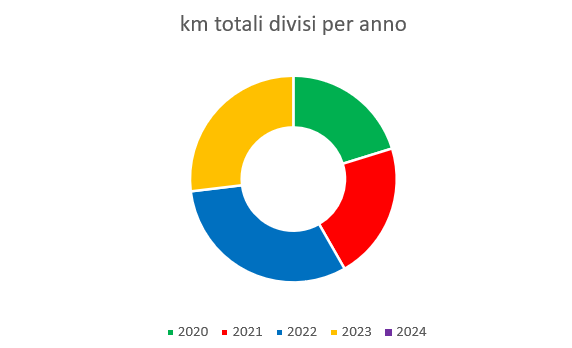
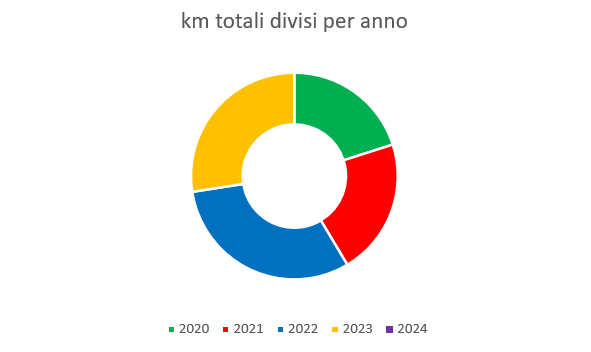
Aggiunta Corsa 19 Novembre

diff --git a/Statistiche/Statistiche2023.html b/Statistiche/Statistiche2023.html
@@ -49,67 +49,67 @@
         <tr>
             <td>Gennaio</td>
             <td>127</td>
-            <td>3,89 %</td>
+            <td>3,78 %</td>
         </tr>
 
         <tr>
             <td>Febbraio</td>
             <td>148</td>
-            <td>4,53 %</td>
+            <td>4,41 %</td>
         </tr>
 
         <tr>
             <td>Marzo</td>
             <td>194</td>
-            <td>5,94 %</td>
+            <td>5,78 %</td>
         </tr>
 
         <tr>
             <td>Aprile</td>
             <td>103</td>
-            <td>3,15 %</td>
+            <td>3,07 %</td>
         </tr>
 
         <tr>
             <td>Maggio</td>
             <td>242</td>
-            <td>7,41 %</td>
+            <td>7,21 %</td>
         </tr>
 
         <tr>
             <td>Giugno</td>
             <td>265</td>
-            <td>8,11 %</td>
+            <td>7,89 %</td>
         </tr>
 
         <tr>
             <td>Luglio</td>
             <td>422</td>
-            <td>12,92 %</td>
+            <td>12,57 %</td>
         </tr>
 
         <tr>
             <td>Agosto</td>
             <td>426</td>
-            <td>13,04 %</td>
+            <td>12,69 %</td>
         </tr>
 
         <tr>
             <td>Settembre</td>
             <td>712</td>
-            <td>21,79 %</td>
+            <td>21,20 %</td>
         </tr>
 
         <tr>
             <td>Ottobre</td>
             <td>420</td>
-            <td>12,86 %</td>
+            <td>12,51 %</td>
         </tr>
 
         <tr>
             <td>Novembre</td>
-            <td>208</td>
-            <td>6,37%</td>
+            <td>299</td>
+            <td>8,90 %</td>
         </tr>
 
         <tr>
@@ -124,10 +124,10 @@
     <img class="immagine" src="Immagini/Statistiche 2023.png">
     <br>
     <div class="colore">
-        <p>totale km 3.267
+        <p>totale km 3.358
             <img src="../Icone/traguardo.png">
         </p>
-        <p>km medi percorsi 65,34</p>
+        <p>km medi percorsi 65,84</p>
     </div>
     <br>
 

diff --git a/Statistiche.html b/Statistiche.html
@@ -66,7 +66,7 @@
             </p>
 
             <p> km totali <img src="Icone/traguardo.png"> 2.456</p>
-            <p> 20,20 %</p>
+            <p> 20,10 %</p>
         </a>
     </div>
 
@@ -77,7 +77,7 @@
             </p>
 
             <p> km totali <img src="Icone/traguardo.png"> 2.614</p>
-            <p> 21,50 %</p>
+            <p> 21,40 %</p>
         </a>
     </div>
 
@@ -88,7 +88,7 @@
             </p>
 
             <p> km totali <img src="Icone/traguardo.png"> 3.808</p>
-            <p> 31,40 %</p>
+            <p> 31,10 %</p>
         </a>
     </div>
 
@@ -98,8 +98,8 @@
                 Statistiche 2023
             </p>
 
-            <p> km totali <img src="Icone/traguardo.png"> 3.267</p>
-            <p> 26,90 %</p>
+            <p> km totali <img src="Icone/traguardo.png"> 3.358</p>
+            <p> 27,40 %</p>
         </a>
     </div>
 
@@ -120,11 +120,11 @@
 
     <div class="colore">
         <p>
-            totale km fatti 12.145
+            totale km fatti 12.236
             <img src="Icone/traguardo.png">
         </p>
 
-        <p>km medi percorsi 69,80 </p>
+        <p>km medi percorsi 69,92 </p>
 
     </div>
 

diff --git a/Autunno_Inverno/Autunno_Inverno2023-2024.html b/Autunno_Inverno/Autunno_Inverno2023-2024.html
@@ -124,14 +124,23 @@
             <td>km</td>
         </tr>
 
+        <tr>
+            <td>19 novembre</td>
+            <td>9</td>
+            <td><a href="https://www.komoot.com/it-it/tour/1377798163?ref=wtd&share_token=aQnC5VdWP4I5iUgtCl9yfhYBK2L3i5NcGR6mzxy3lU2cRrfl2c"
+                    target="_blank">Colloredo di Monte Albano + Buja (corsa velocità)</a></td>
+            <td>91</td>
+            <td>km</td>
+        </tr>
+
     </table>
 
     <br>
     <div class="colore">
-        <p> totale km 628
+        <p> totale km 719
             <img src="../Icone/traguardo.png">
         </p>
-        <p>km medi percorsi 78,50</p>
+        <p>km medi percorsi 79,89</p>
     </div>
 </body>
 

diff --git a/Autunno_Inverno.html b/Autunno_Inverno.html
@@ -92,7 +92,7 @@
         <img class="immaginestagione" src="Icone/inverno.png">
         <a href="Autunno_Inverno/Autunno_Inverno2023-2024.html">
             <p class="titoli">Autunno - Inverno 2023/2024
-                <p>Totale km <img src="Icone/traguardo.png"> 628</p>
+                <p>Totale km <img src="Icone/traguardo.png"> 719</p>
             </p>
         </a>
     </div>

diff --git a/Giri.html b/Giri.html
@@ -238,11 +238,11 @@
     <a href="Statistiche.html">
         <div class="colore">
             <p>
-                totale km fatti 12.145
+                totale km fatti 12.236
                 <img src="Icone/traguardo.png">
             </p>
     
-            <p>km medi percorsi 69,80 </p>
+            <p>km medi percorsi 69,92 </p>
     
         </div>
     </a>
